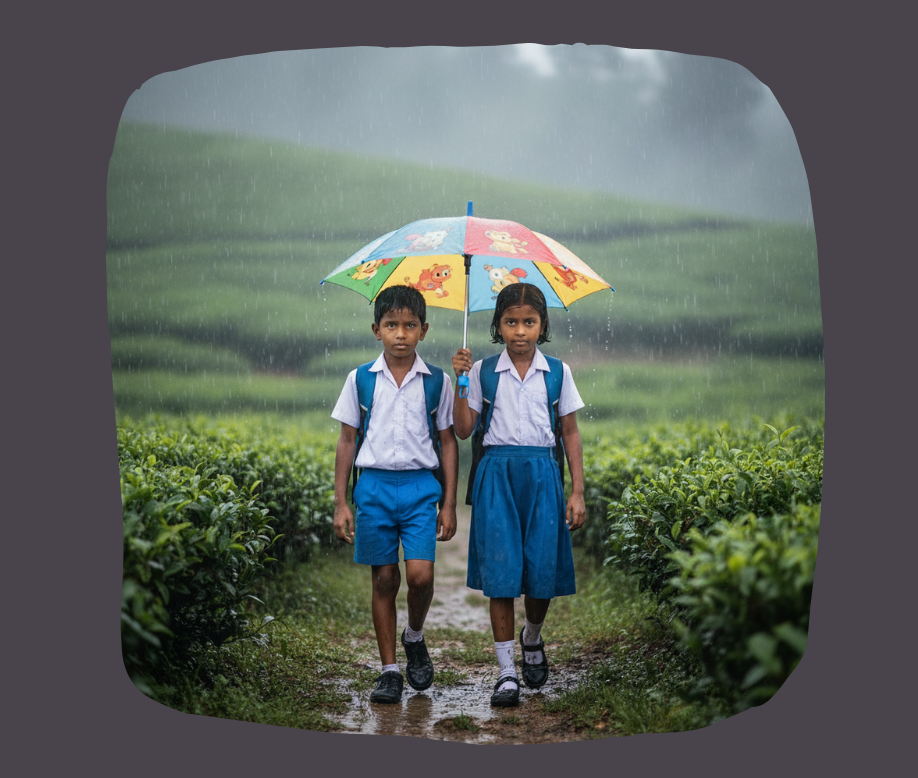
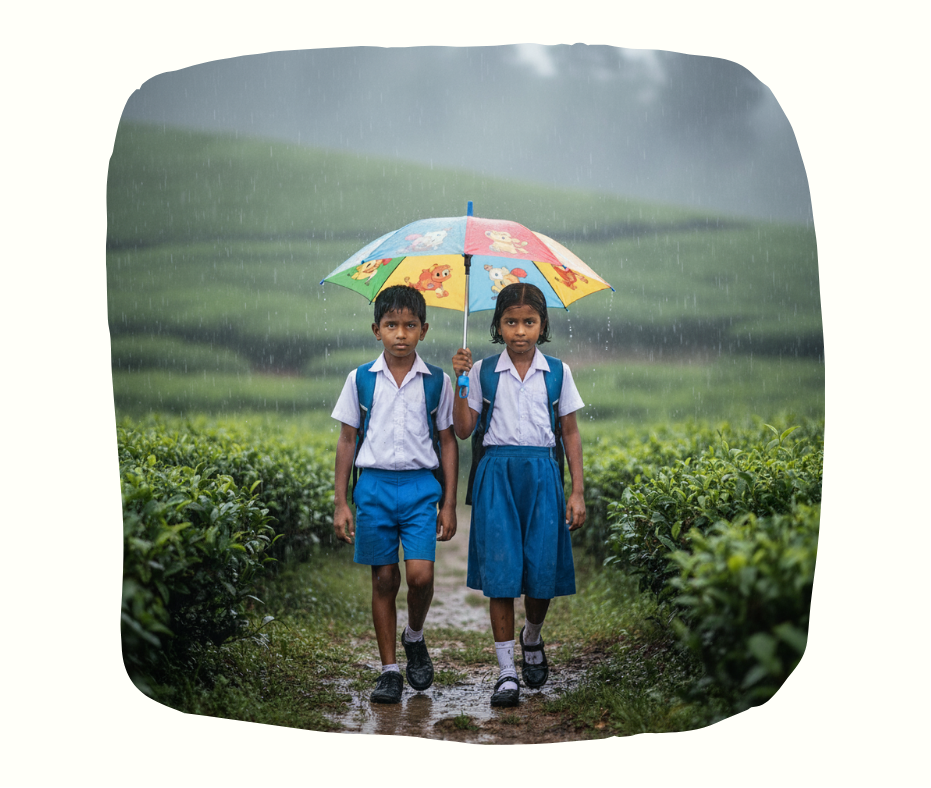
Changes made on 29/10

diff --git a/src/Pages/Home.jsx b/src/Pages/Home.jsx
@@ -66,7 +66,7 @@ function Home() {
       </section>
 
       {/* Who We Are Section */}
-      <section className="py-16 px-12 relative z-10 w-full box-border bg-[#49444b] font-montserrat">
+      <section className="py-16 px-12 relative z-10 w-full box-border bg-white font-montserrat">
 
         <div className="flex flex-col lg:flex-row justify-center items-center">
 
@@ -81,18 +81,18 @@ function Home() {
 
 
           <div className="w-full order-1 lg:order-2 lg:w-[50%]">
-            <h1 className="font-bold text-4xl md:text-5xl lg:text-6xl text-[#f5f3f3] m-5 px-[10px]">Who We Are</h1>
+            <h1 className="font-bold text-4xl md:text-5xl lg:text-6xl text-black m-5 px-[10px]">Who We Are</h1>
             <div className="p-12 md:p-16 mx-2.5 md:mx-4 box-border">
-              <p className="font-normal text-[#f5f3f3] text-base md:text-lg leading-relaxed md:leading-[1.9]">
+              <p className="font-normal text-black text-base md:text-lg leading-relaxed md:leading-[1.9]">
                 Many tea estate families in Sri Lanka still face poverty, with children often leaving school too early. <br />
-                <span className="text-[#eb7630] font-medium">TEAch Volunteers</span> was founded to change that. We connect dedicated volunteers with children who cannot afford private tutoring, offering them the
-                <span className="text-[#eb7630] font-medium"> support</span>,
-                <span className="text-[#eb7630] font-medium"> confidence</span>, and
-                <span className="text-[#eb7630] font-medium"> hope</span> to succeed. <br />
+                <span className=" font-medium">TEAch Volunteers</span> was founded to change that. We connect dedicated volunteers with children who cannot afford private tutoring, offering them the
+                <span className=" font-medium"> support</span>,
+                <span className=" font-medium"> confidence</span>, and
+                <span className=" font-medium"> hope</span> to succeed. <br />
                 Our mission: every child deserves the chance to
-                <span className="text-[#eb7630] font-medium"> learn</span>,
-                <span className="text-[#eb7630] font-medium"> grow</span>, and
-                <span className="text-[#eb7630] font-medium"> dream of a brighter future</span>.
+                <span className=" font-medium"> learn</span>,
+                <span className=" font-medium"> grow</span>, and
+                <span className=" font-medium"> dream of a brighter future</span>.
               </p>
             </div>
           </div>
@@ -101,9 +101,9 @@ function Home() {
       </section>
 
       {/* Video Section */}
-      <section className="py-7 md:py-[30px] px-2.5 relative z-10 w-full box-border">
-        <h2 className="mb-5 text-[#eb7630] px-4 md:px-[15px] text-2xl md:text-3xl">See Us In Action 🎥</h2>
-        <div className="relative inline-block w-[90%] max-w-[700px] z-10 box-border">
+      <section className="bg-[#f5f3f3] py-7 md:py-[30px] px-2.5 relative z-10 w-full box-border font-nunito">
+        <h1 className="m-4 text-black px-4 md:px-8 text-3xl md:text-4xl lg:text-5xl font-semibold md:font-bold ">See Us In Action</h1>
+        <div className="relative m-4 md:m-8 lg:m-12 inline-block w-[90%] max-w-[700px] z-10 box-border">
           <video
             className="w-full rounded-xl shadow-xl max-w-full"
             autoPlay
@@ -121,8 +121,8 @@ function Home() {
       </section>
 
       {/* How It Works Section */}
-      <section className="py-[50px] px-5 relative z-10">
-        <h2 className="mb-5 text-[#eb7630] px-4 md:px-[15px] text-2xl md:text-3xl">How It Works</h2>
+      <section className="bg-white py-12 px-5 relative z-10">
+        <h2 className="m-8 text-black px-4 md:px-8 lg:px-12 text-3xl md:text-4xl lg:text-5xl font-semibold md:font-bold ">How It Works</h2>
         <div className="flex flex-col md:flex-row gap-5 flex-wrap justify-center items-stretch max-w-[1200px] mx-auto">
           {steps.map((step) => (
             <div

diff --git a/src/index.css b/src/index.css
@@ -3,7 +3,7 @@
 
 
 /* If you need Nunito, uncomment the line below */
-/* @import url('https://fonts.googleapis.com/css2?family=Nunito:ital,wght@0,200..1000;1,200..1000&display=swap'); */
+@import url('https://fonts.googleapis.com/css2?family=Nunito:ital,wght@0,200..1000;1,200..1000&display=swap');
 
 @import "tailwindcss";
 /* Tailwind Layers */
